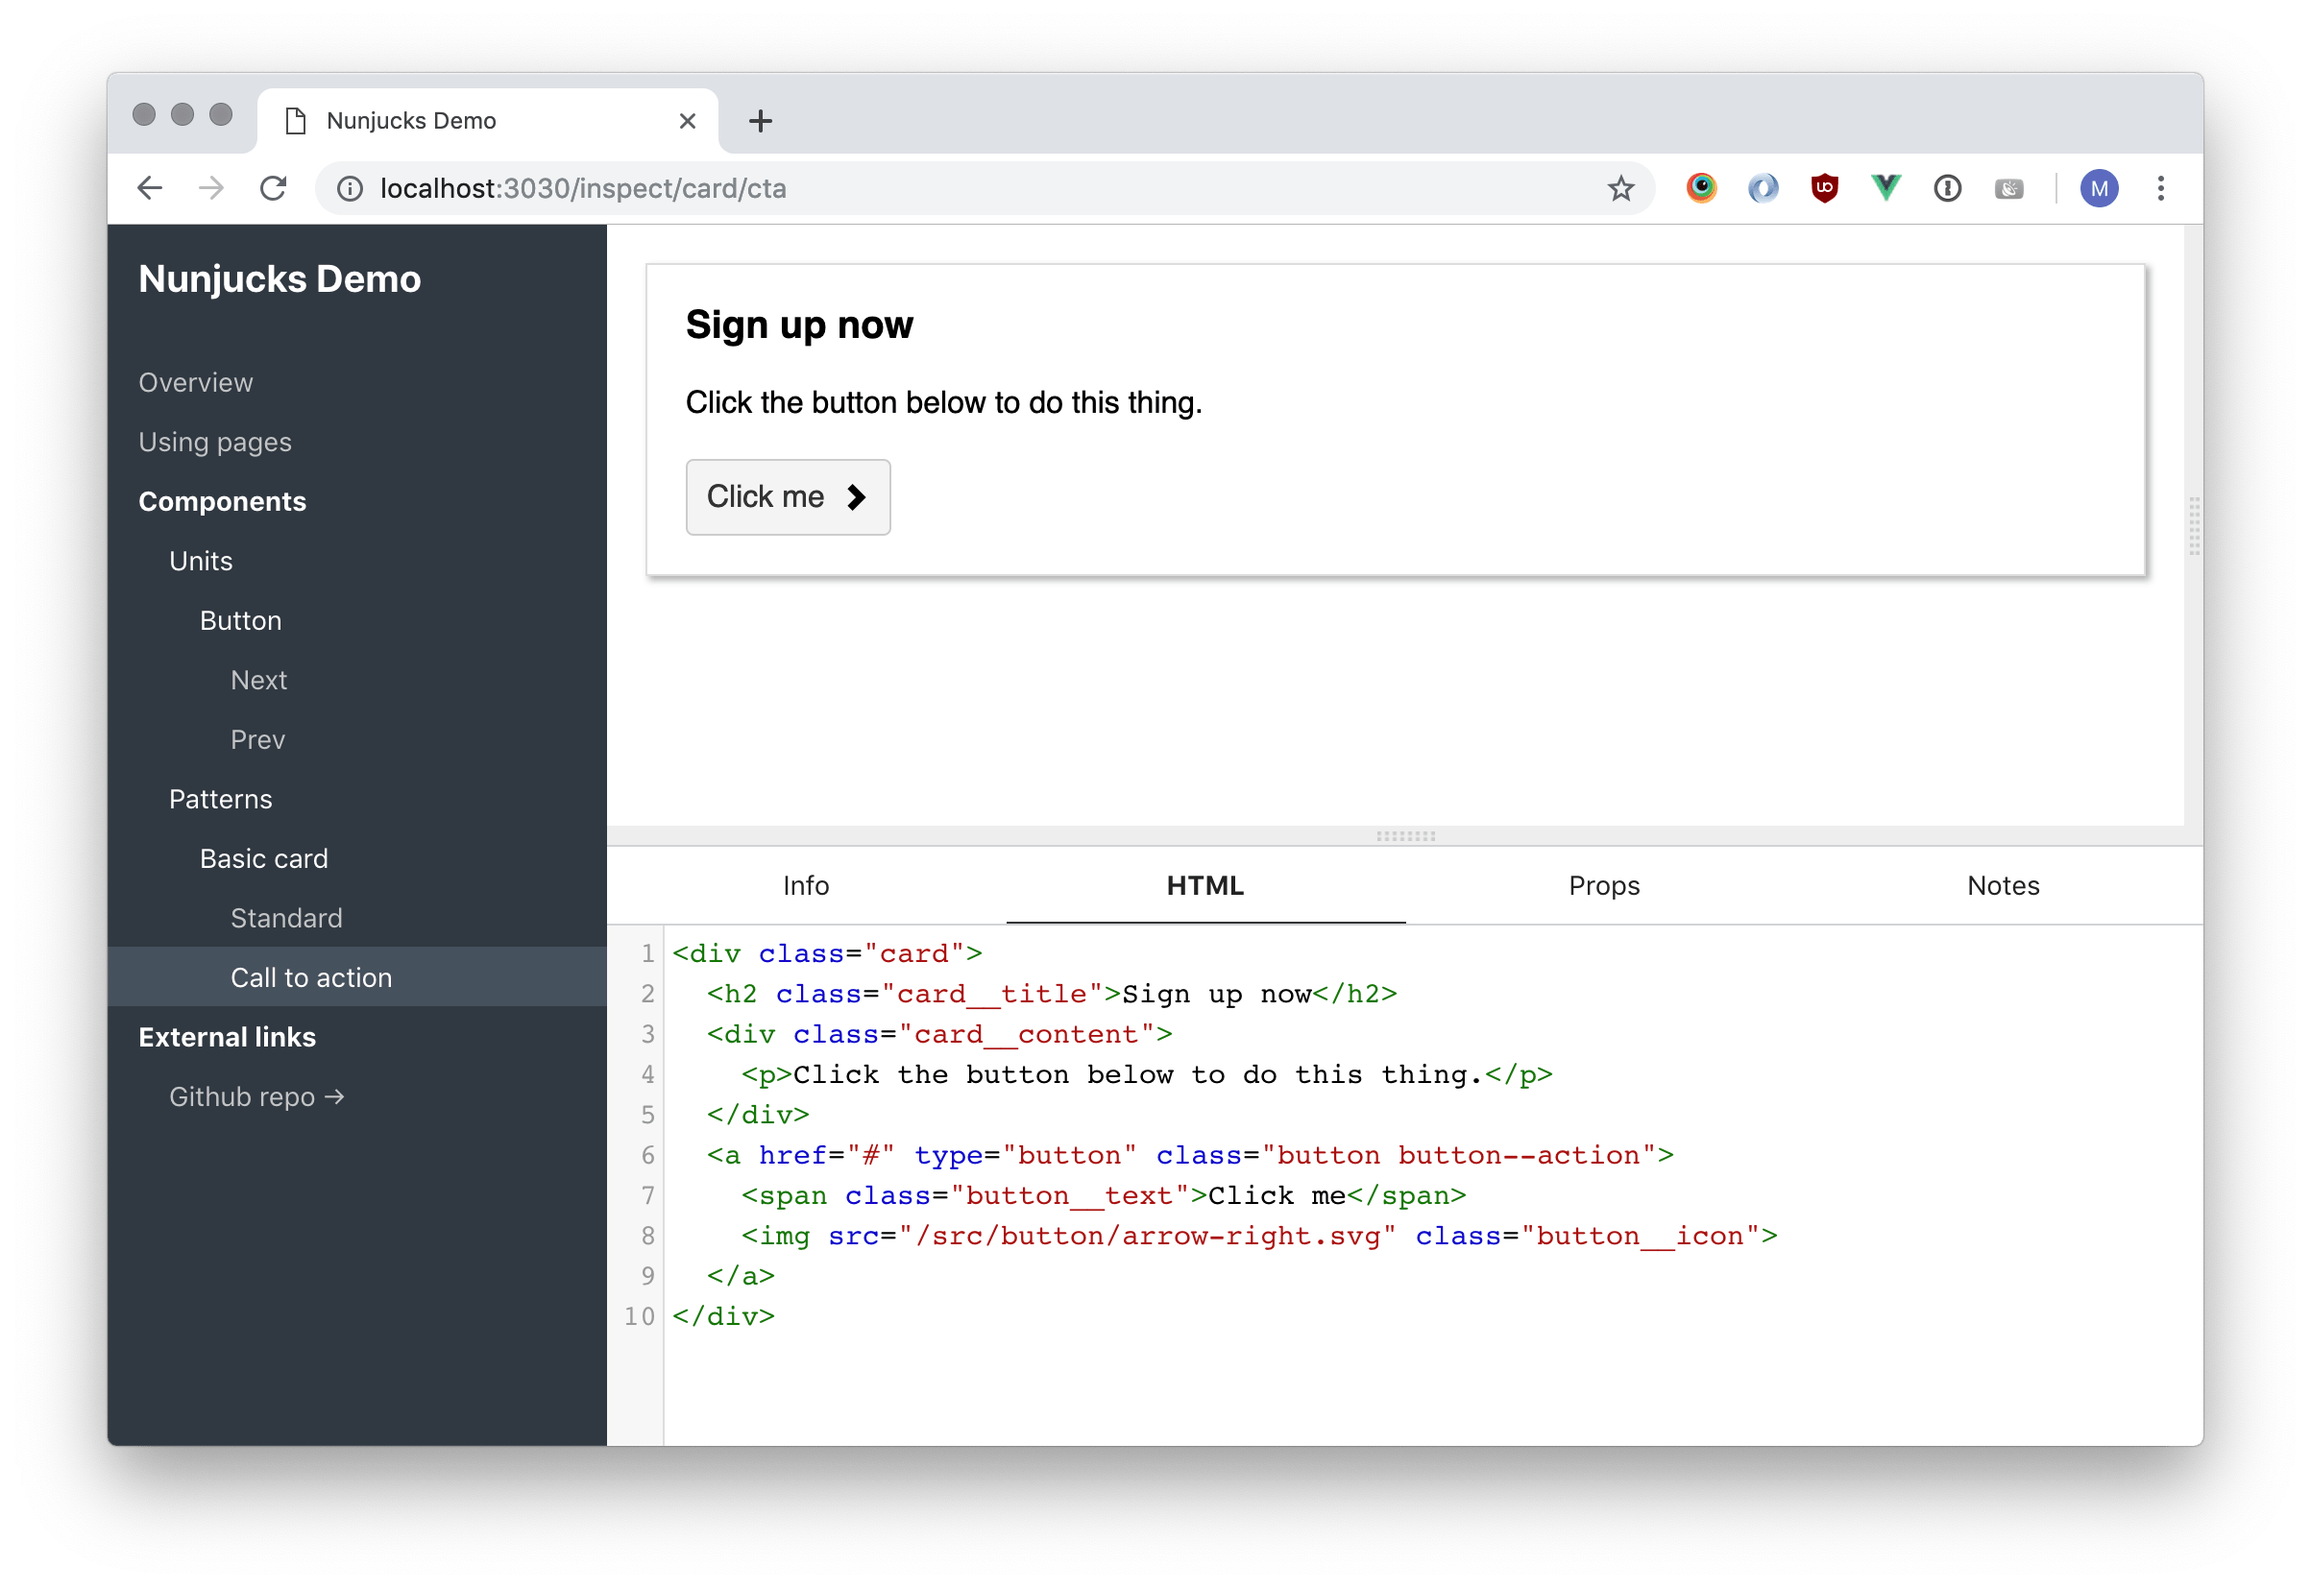
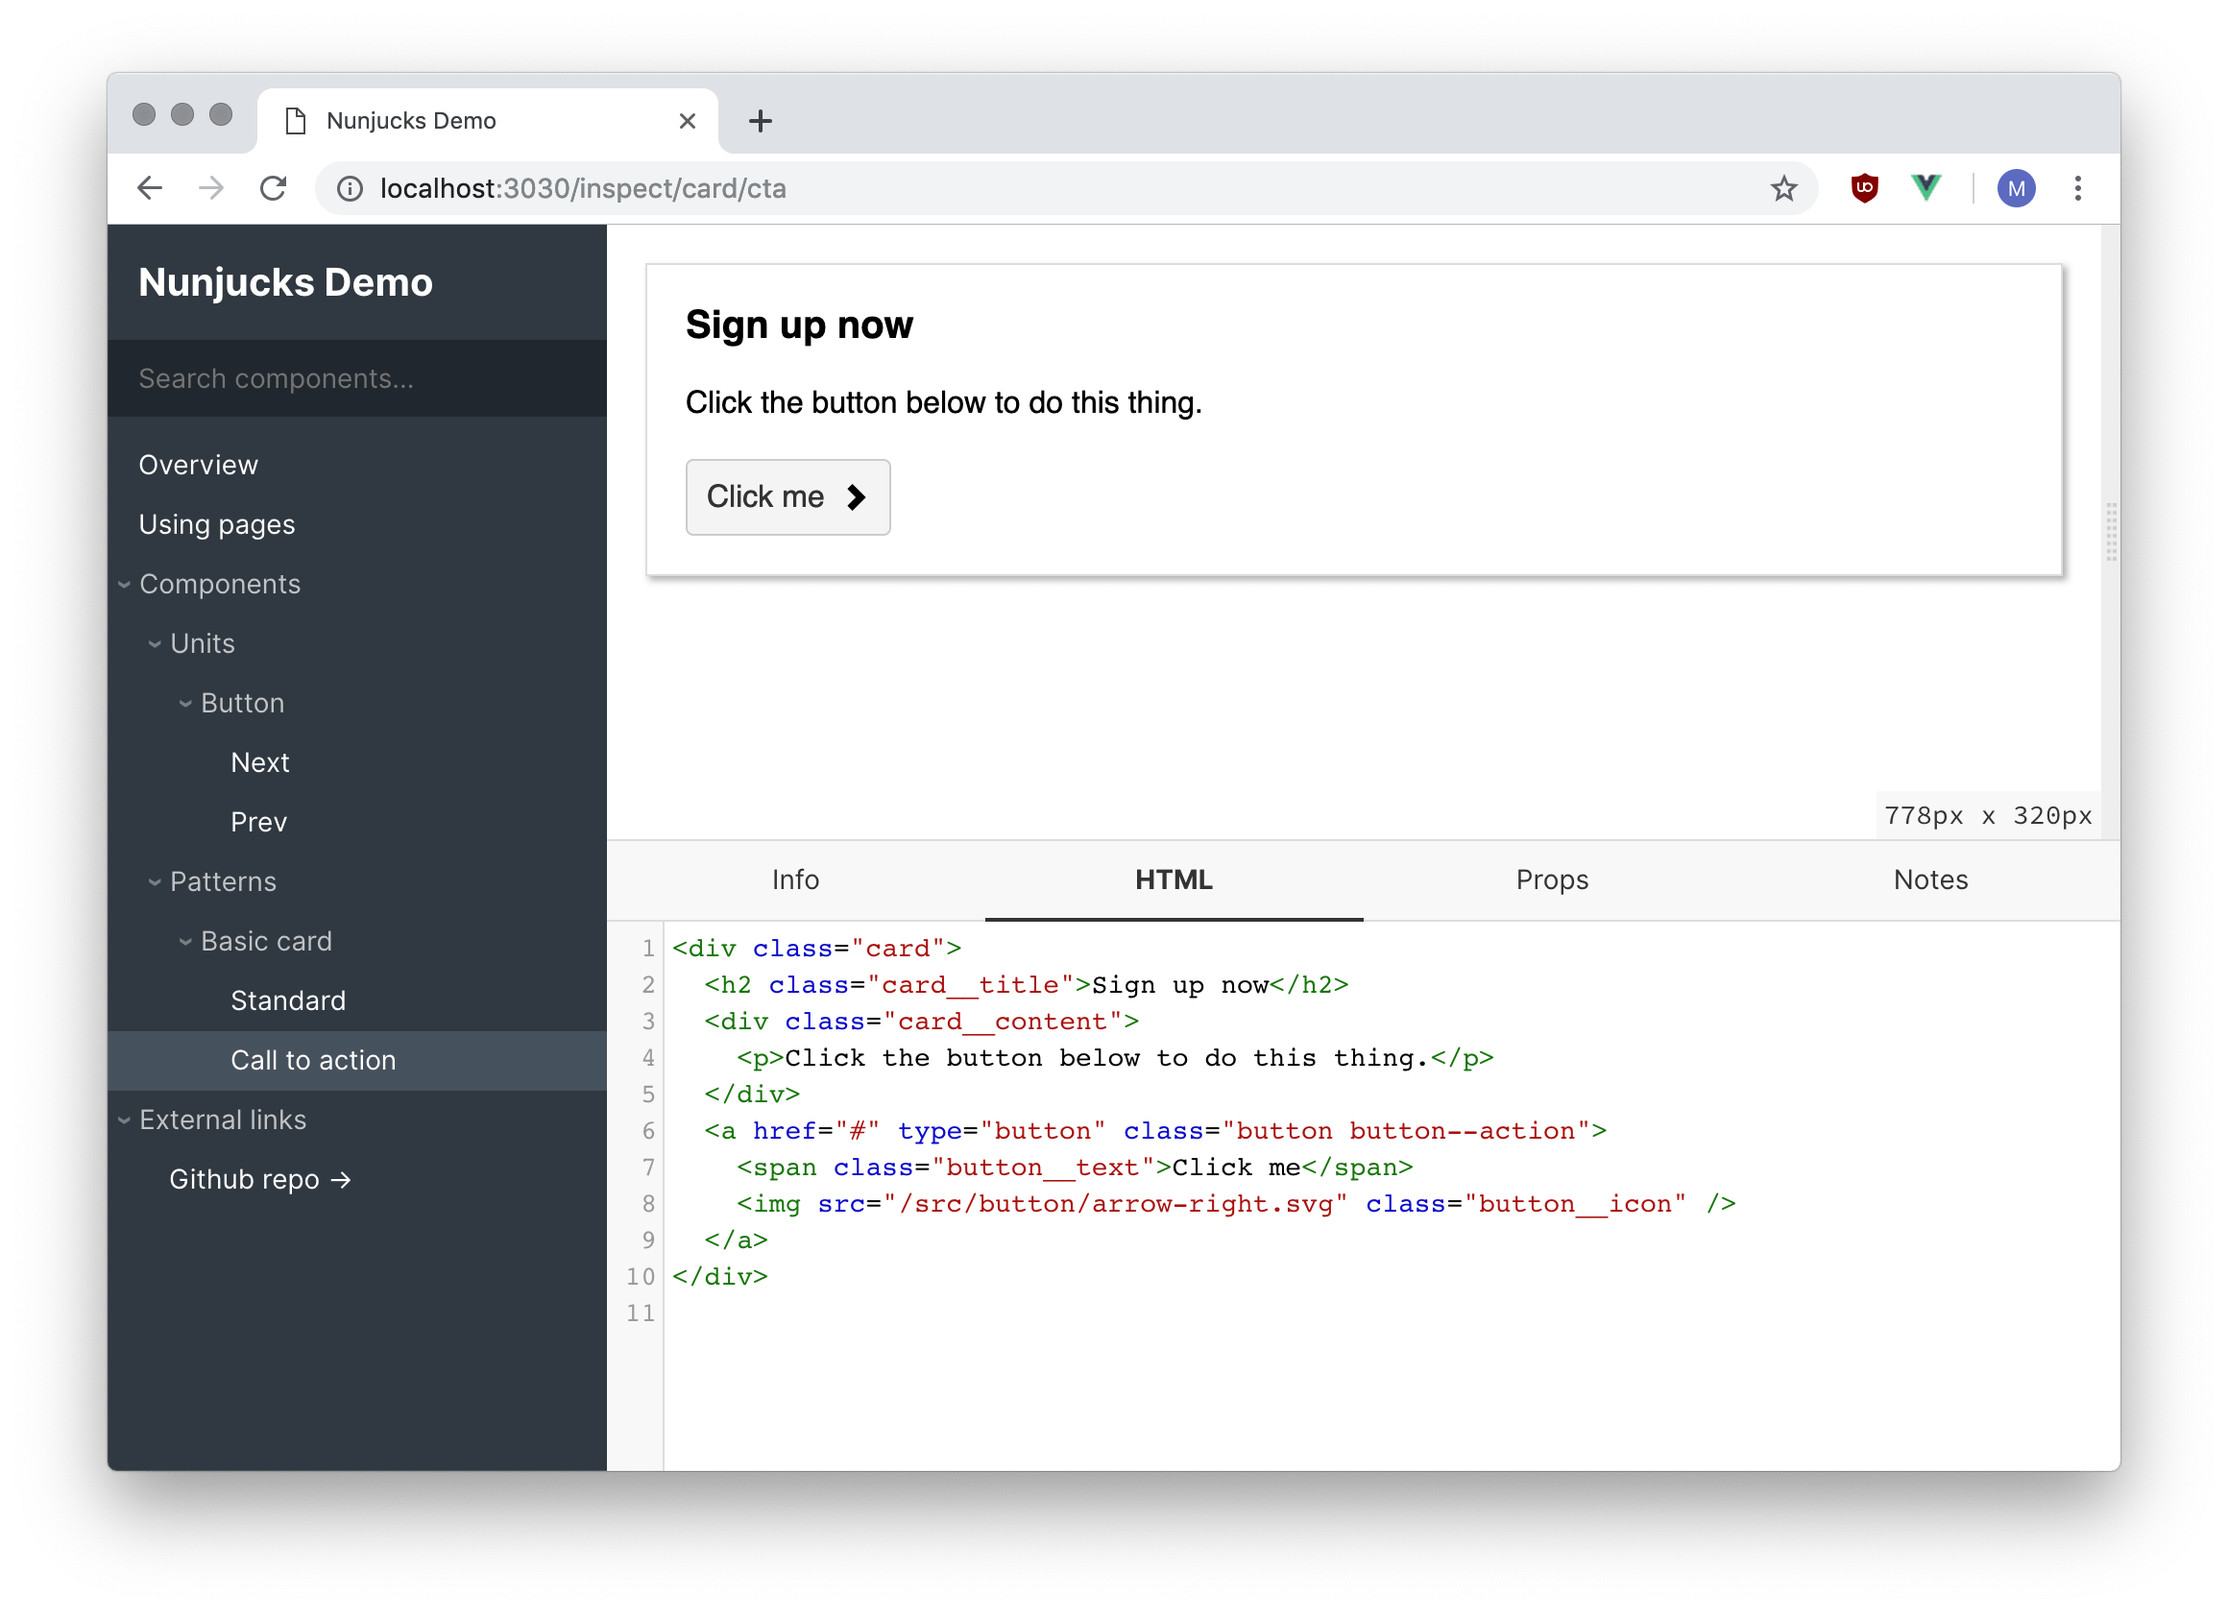
Update screenshot and demo deployemnt URL

diff --git a/README.md b/README.md
@@ -28,6 +28,7 @@ Feedback, comments and/or pull requests on **all** aspects of the prototype are 
 * [Plugin system](#plugins) for compiler and UI customisation
 * [Adapter-based](#adapters) component rendering
 * Completely customisable [nav generation](#navigaion)
+* Component and scenario search
 * Easy [asset referencing](#view-template-assets) within components
 * Dynamic page builder
 * Zero-config [asset bundling](#assets-bundler-plugin) (via plugin)
@@ -41,7 +42,6 @@ Feedback, comments and/or pull requests on **all** aspects of the prototype are 
 * [ ] Proper UI design & implementation
   * [ ] Responsive UI
   * [ ] Loading states
-  * [ ] Component search
   * [ ] More variables for theming
   * [ ] Landing page
 * [ ] More tests
@@ -89,7 +89,7 @@ Exported files can be found in the `demos/nunjucks/build` directory after export
 
 > As the name suggests, the static build is **not** regenerated when component files are updated.
 
-_A hosted version of the static build [can be found here](https://build-ckzcnjurbt.now.sh/)_
+_A hosted version of the static build [can be found here](https://build-hkiwxrozzx.now.sh)_
 
 #### Other demos
 
